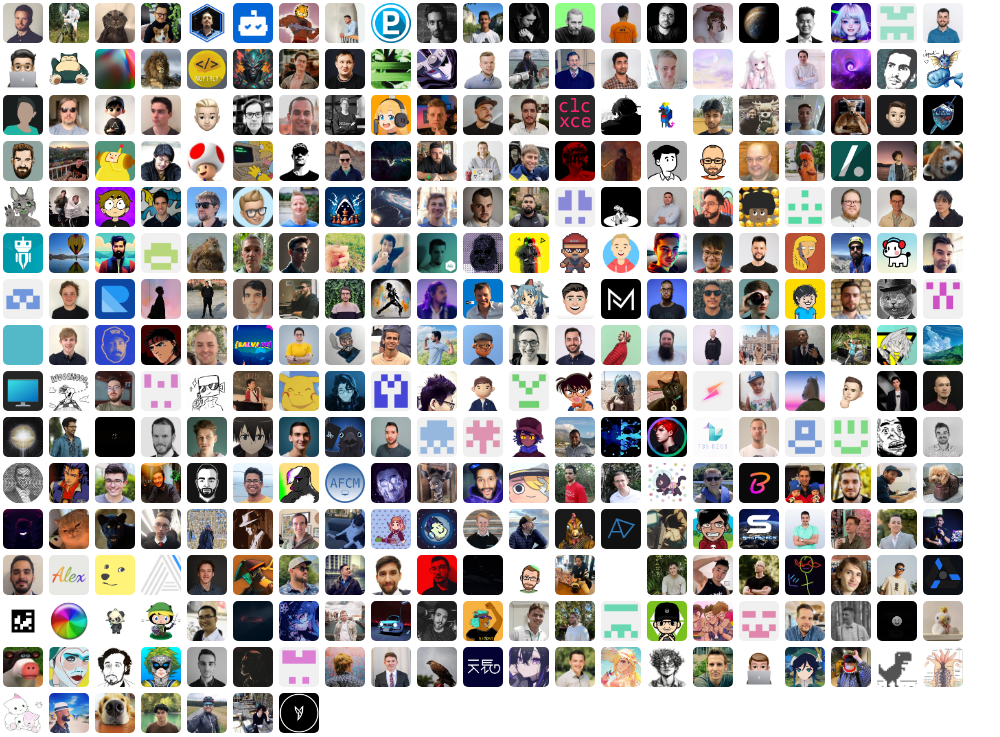
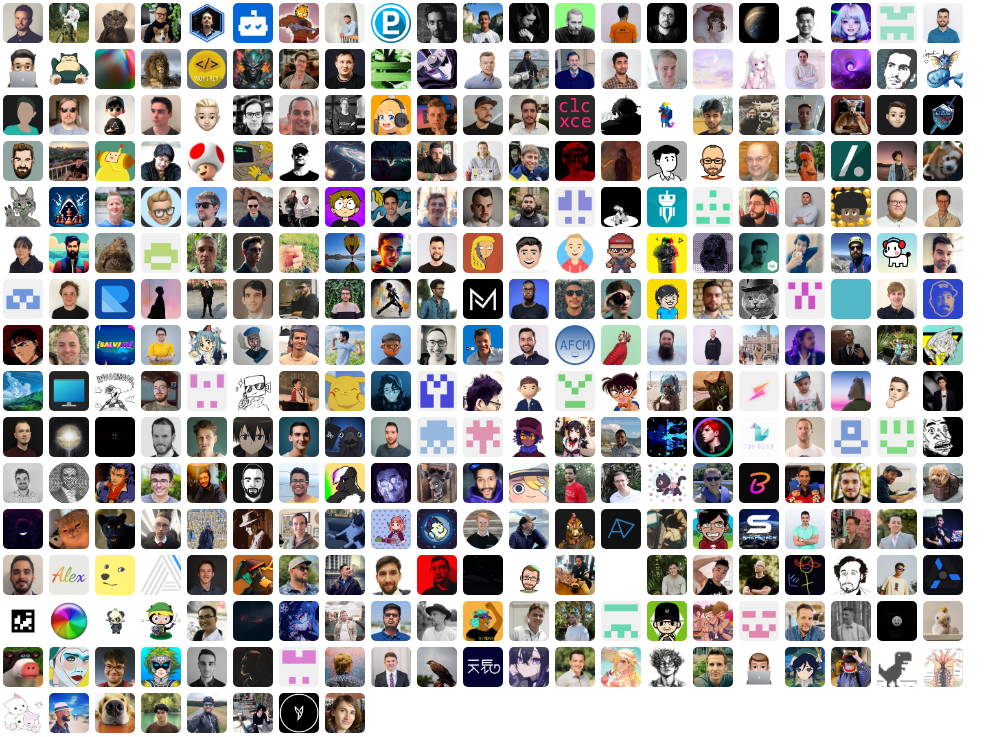
release: 🔖 v1.11.0

diff --git a/CHANGELOG.md b/CHANGELOG.md
@@ -3,10 +3,20 @@
  All notable changes to this project will be documented in this file. Dates are displayed in UTC.
 
  
+#### [v1.11.0](https://github.com/lucodear/lucodear-icons/compare/v1.10.0...v1.11.0) 
+
+> September 16, 2024 
+
+- feat: ✨ coco folder icon [`80faf6ca`](https://github.com/lucodear/lucodear-icons/commit/80faf6ca)
+- build(deps): bump actions/create-github-app-token [`#2591`](https://github.com/lucodear/lucodear-icons/pull/2591)
+- Add `ts`, `cjs` ext for `quasar` [`#2590`](https://github.com/lucodear/lucodear-icons/pull/2590)
+- Added icon for `wxt.config.ts` file 🧩 [`#2576`](https://github.com/lucodear/lucodear-icons/pull/2576)
+ 
 #### [v1.10.0](https://github.com/lucodear/lucodear-icons/compare/v1.9.0...v1.10.0) 
 
 > September 11, 2024 
 
+- release: 🔖 v1.10.0 [`a315c882`](https://github.com/lucodear/lucodear-icons/commit/a315c882)
 - feat: ✨ oxidoc folder [`5ae1b1ba`](https://github.com/lucodear/lucodear-icons/commit/5ae1b1ba)
 - build(deps): bump the github-actions group with 2 updates [`#2583`](https://github.com/lucodear/lucodear-icons/pull/2583)
 - feat: ✨ .clang-format-ignore file icon [`#2580`](https://github.com/lucodear/lucodear-icons/pull/2580)
